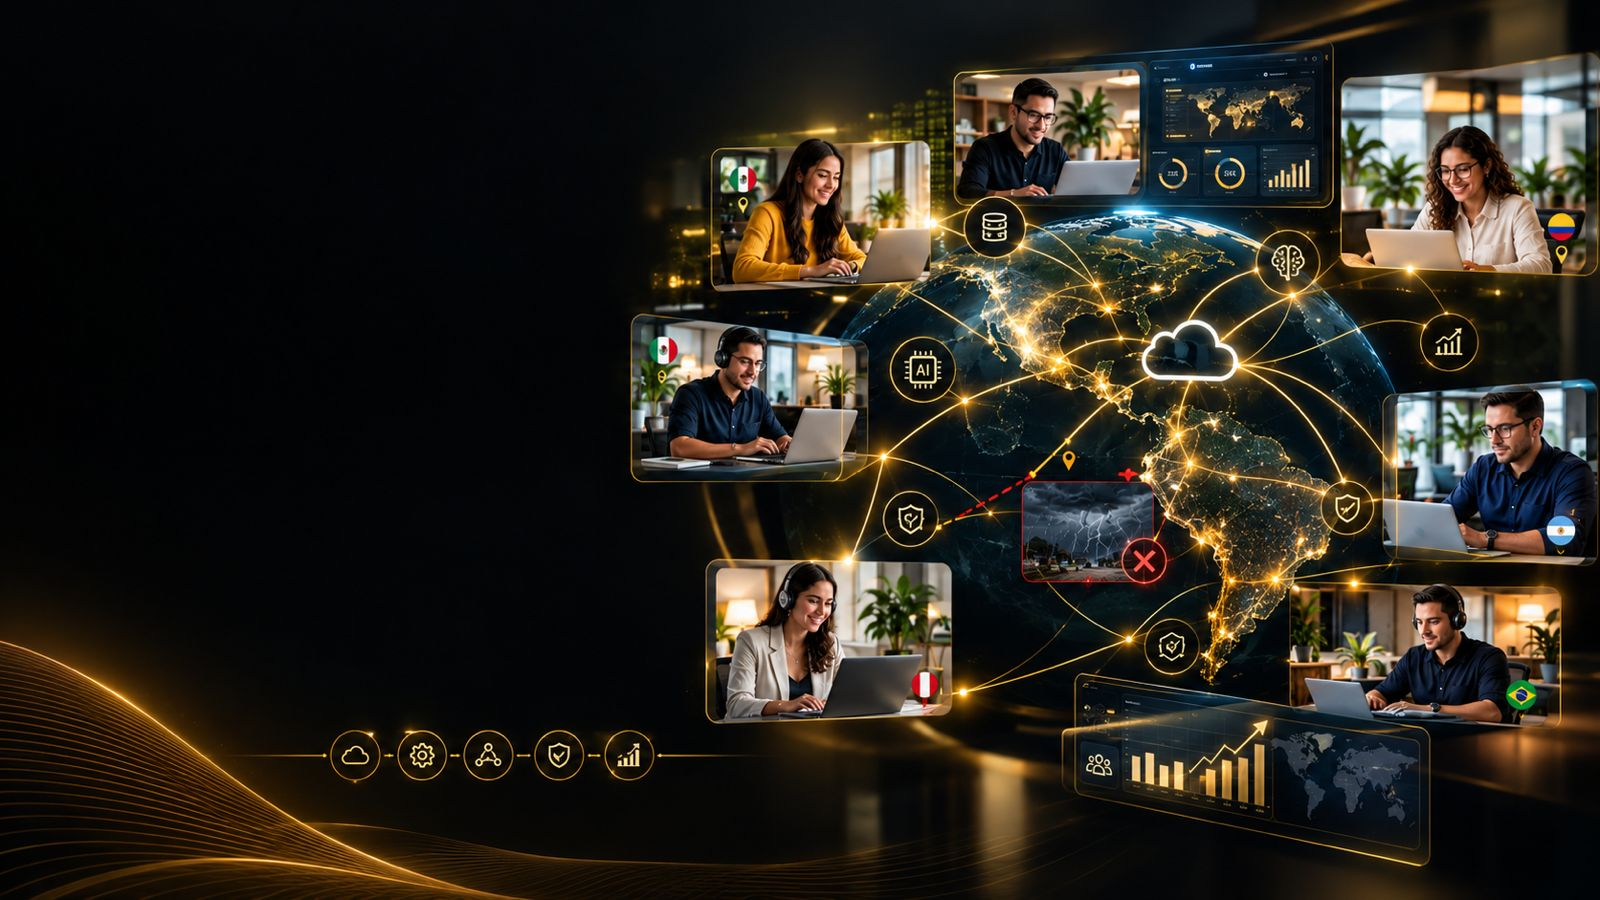
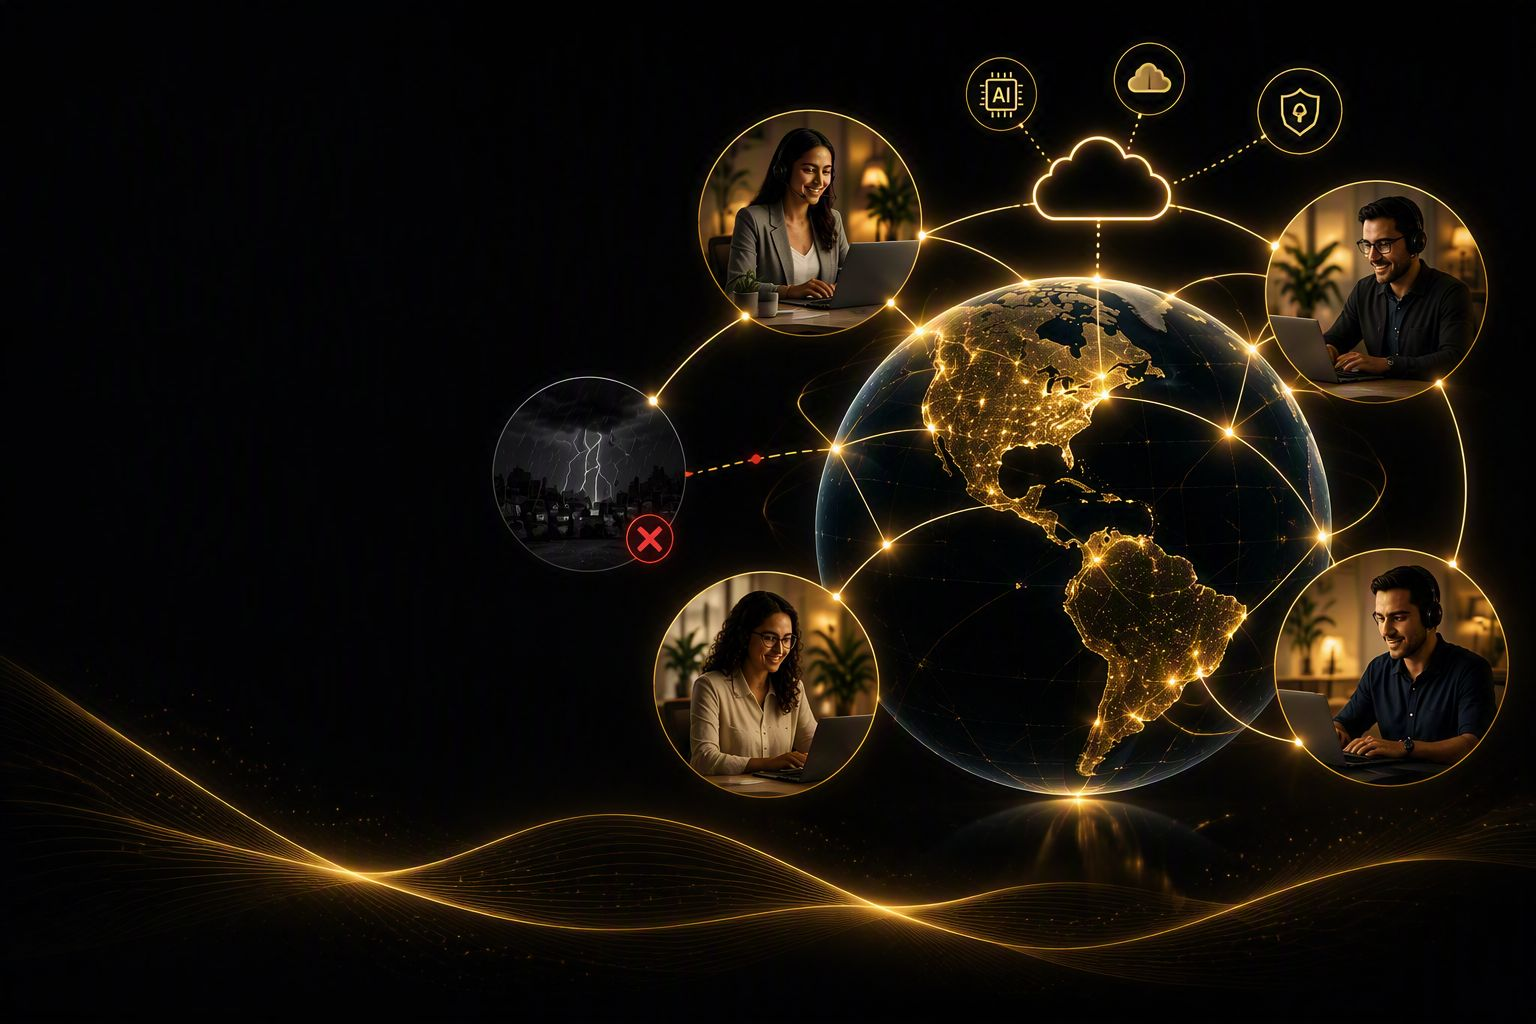
cambio de imagenes

diff --git a/resources/js/Pages/Welcome.jsx b/resources/js/Pages/Welcome.jsx
@@ -217,22 +217,6 @@ export default function Welcome() {
                                     style={{ backgroundImage: "url('/images/slide-2.jpg')" }}
                                 />
                             </SwiperSlide>
-
-                            {/* Imagen 3 */}
-                            <SwiperSlide>
-                                <div
-                                    className="h-full w-full bg-cover bg-center"
-                                    style={{ backgroundImage: "url('/images/slide-3.jpg')" }}
-                                />
-                            </SwiperSlide>
-
-                            {/* Imagen 4 */}
-                            <SwiperSlide>
-                                <div
-                                    className="h-full w-full bg-cover bg-center"
-                                    style={{ backgroundImage: "url('/images/slide-4.jpg')" }}
-                                />
-                            </SwiperSlide>
                         </Swiper>
                     </div>
 
